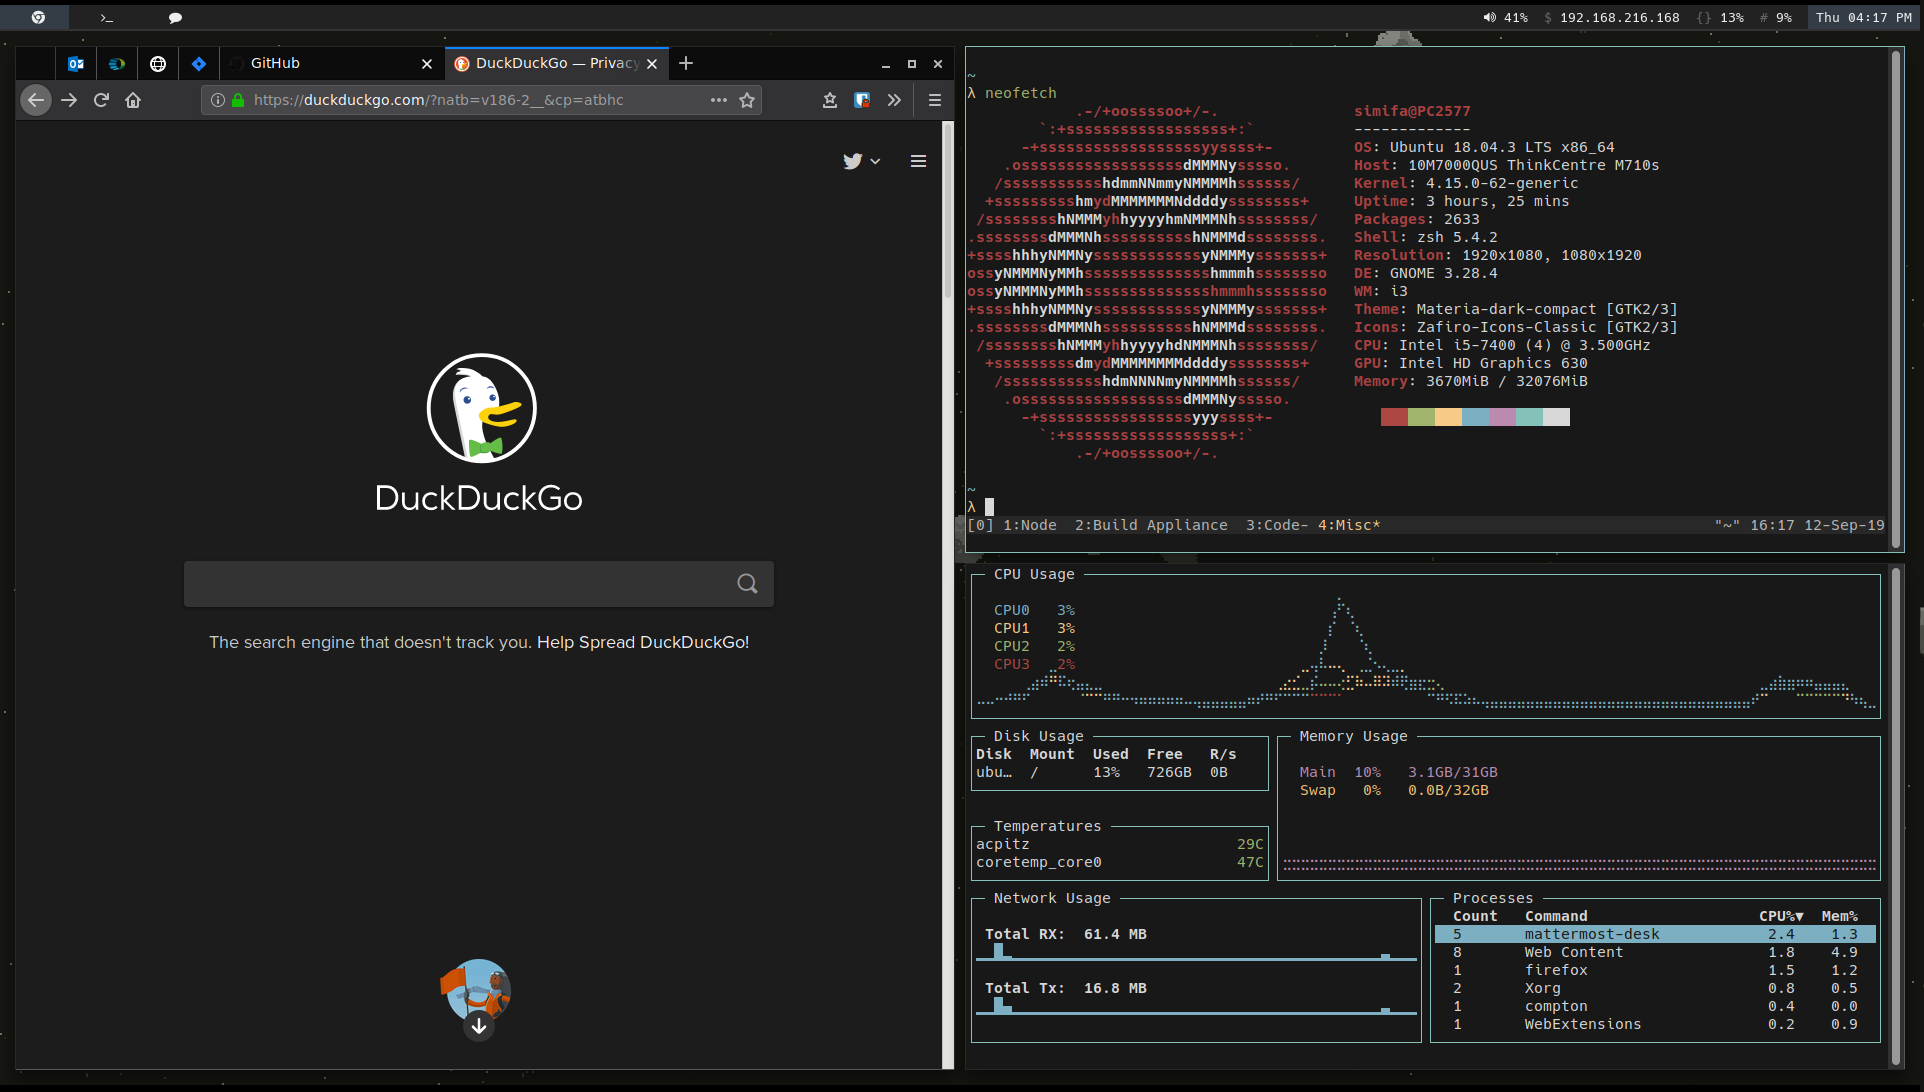
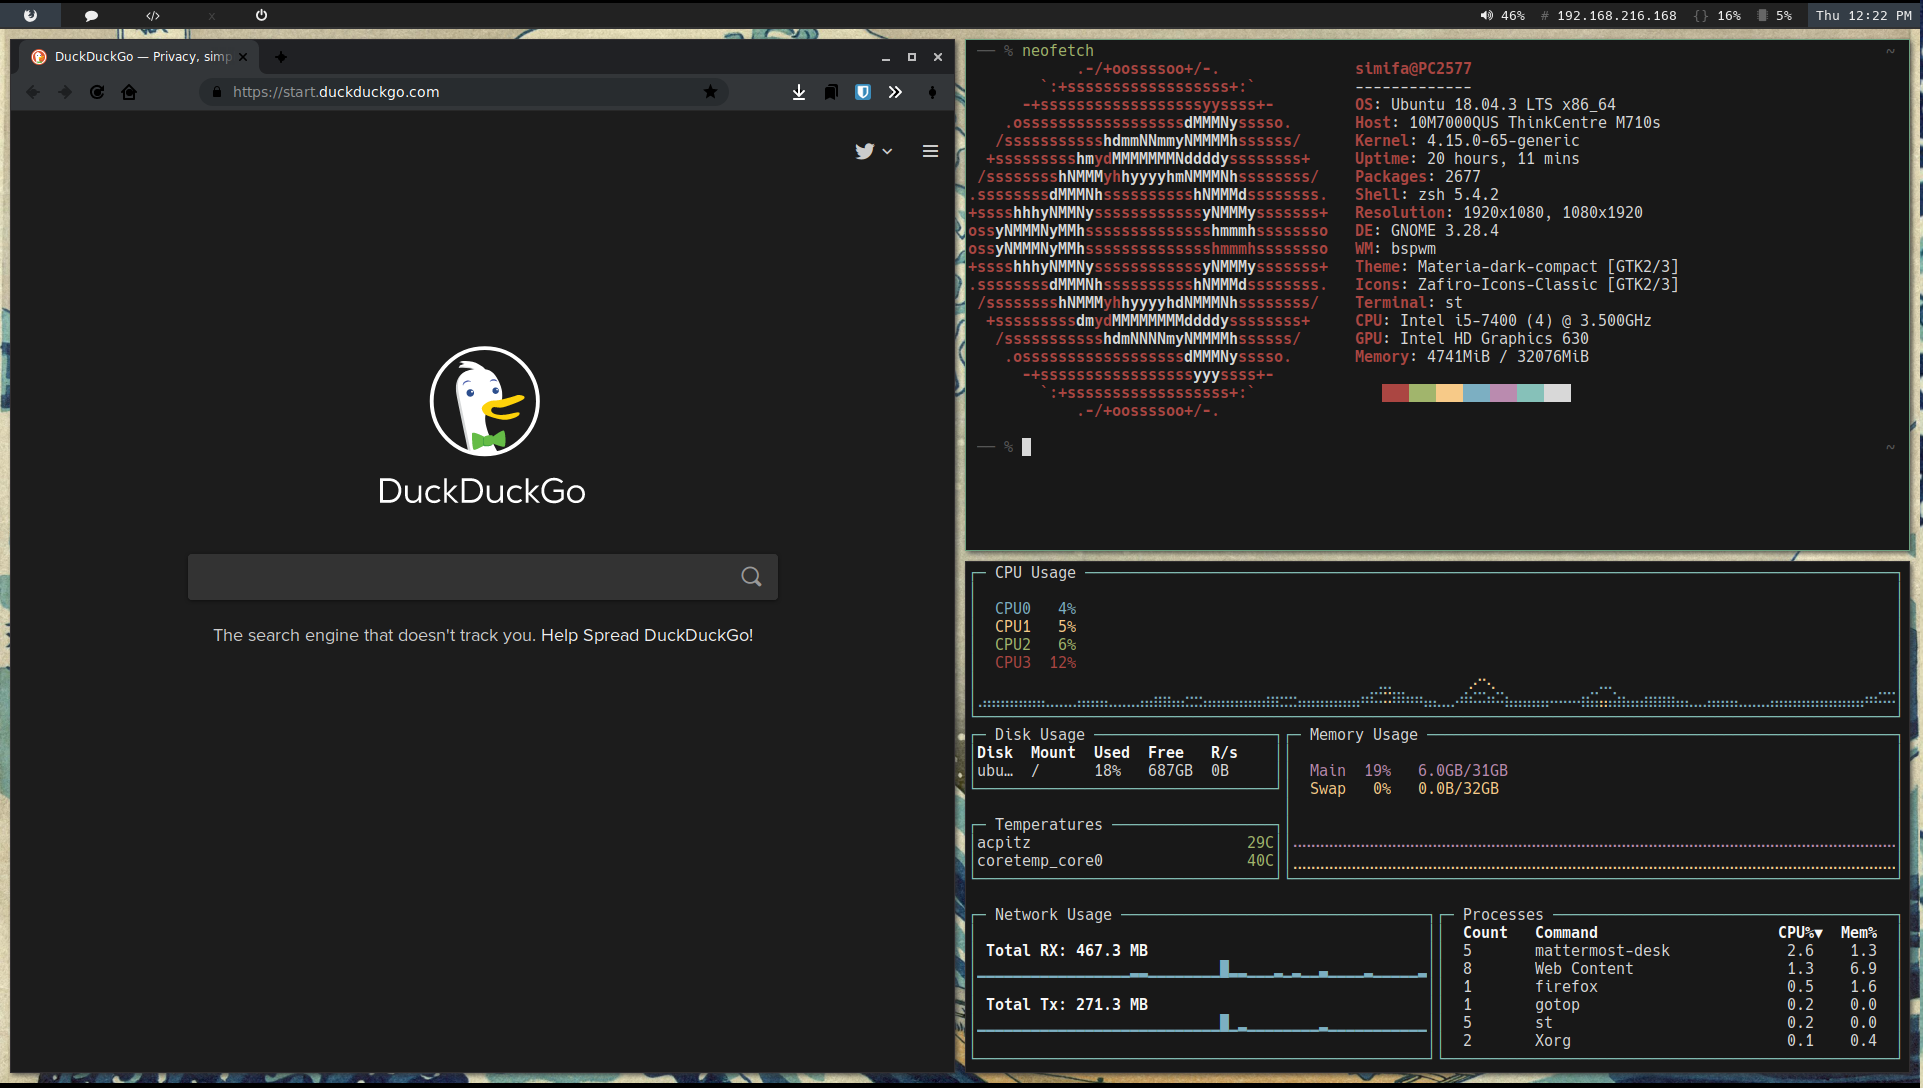
Minor fixes from last milestone

diff --git a/README.md b/README.md
@@ -13,7 +13,9 @@ In this section will be listed all the Graphical Applications. A separate sectio
 
 ### Desktop Environment
 - [Rofi](https://github.com/davatorium/rofi) - A window switcher, Application launcher and dmenu replacement.
-- [i3-gaps](https://github.com/Airblader/i3) - A tiling window manager.
+- [Bspwm](https://github.com/baskerville/bspwm) - A tiling window manager based on binary space partitioning
+- [Bspwm-gnome](https://github.com/shizonic/bspwm-gnome) - Use bspwm with GNOME session integration
+- [Sxhkd](https://github.com/baskerville/sxhkd) - Simple X hotkey daemon
 - [Materia](https://github.com/nana-4/materia-theme) - A material gtk theme
 - [Polybar](https://github.com/polybar/polybar) - A fast and easy-to-use tool for creating status bars.
 - [Compton](https://github.com/chjj/compton) - A compositor for x11.
